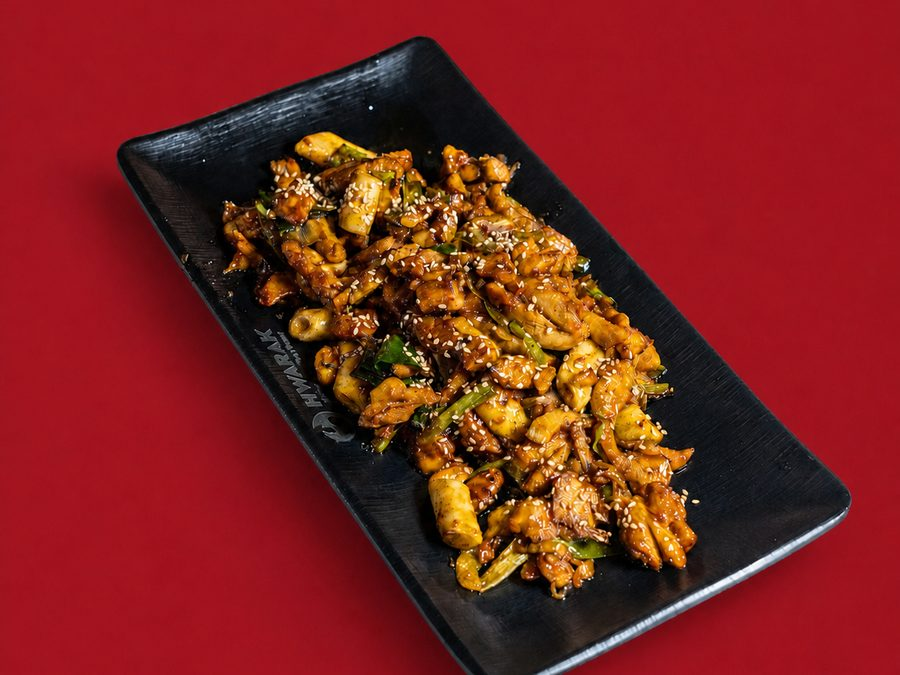
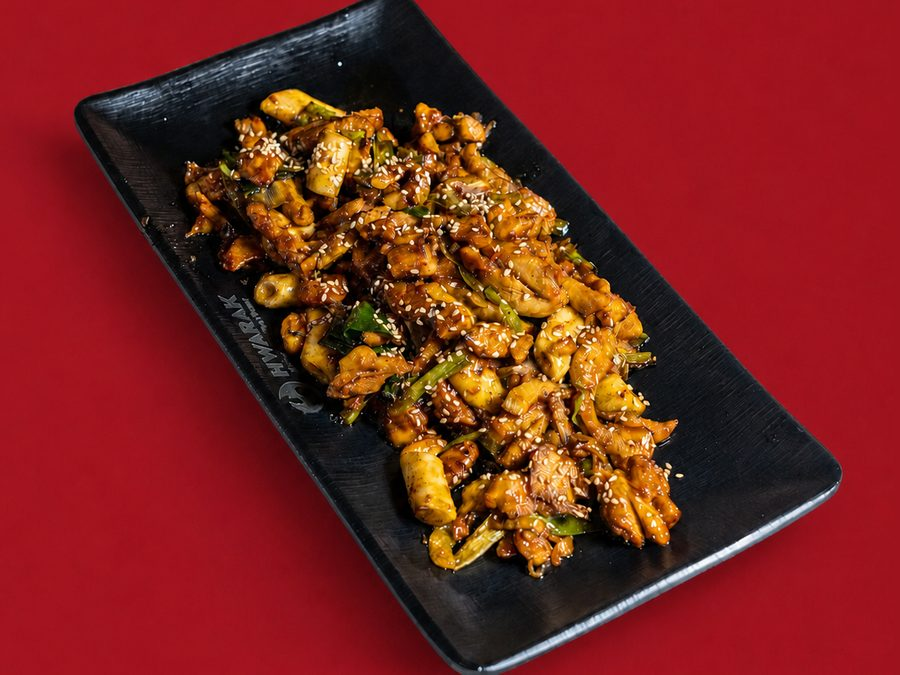
음식 사진이 잘리던 문제 수정 + 예쁜 사진 순으로 재배열
잘림·치우침
  원본이 정사각(1254x1254)인데 화면은 4:3 이라 위아래를 잘라내고
  있었습니다. 음식의 세로 중심이 0.435~0.594 로 사진마다 달라서
  잘리는 위치도 제각각이었습니다.

  자르는 대신 배경색으로 채우도록 바꿨습니다. 스튜디오 사진이라
  배경이 한 가지 색이어서 이어 붙인 티가 나지 않습니다.
  네 귀퉁이에서 배경색을 읽고, 배경과 다른 화소(=음식)의 범위를
  찾아 그 가운데에 맞춥니다. 이제 잘리는 사진이 없습니다.

순서
  식사준비 — 한 접시가 또렷한 사진(낙지볶음·비빔밥·김치찌개·돈까스·
  부추전·냉면)을 앞으로, 여러 그릇이 깔린 한상 차림을 뒤로
  남자피자 — 새로 찍은 베이컨포테이토를 앞으로

diff --git a/menu/index.html b/menu/index.html
@@ -823,9 +823,9 @@
     
 
     
-    <div id="menuBody"><h3 class="msec">식사준비</h3><div class="mbody"><div class="mside"><div class="mgrid"><figure class="mitem"><div class="mitem__img"><img data-photo="한상 차림" data-size="1400×1400" src="/assets/img/food/meal-1.jpg" alt="한상 차림"></div></figure><figure class="mitem"><div class="mitem__img"><img data-photo="비빔밥 정식" data-size="1400×1400" src="/assets/img/food/meal-2.jpg" alt="비빔밥 정식"></div></figure><figure class="mitem"><div class="mitem__img"><img data-photo="찌개 한상" data-size="1400×1400" src="/assets/img/food/meal-3.jpg" alt="찌개 한상"></div></figure><figure class="mitem"><div class="mitem__img"><img data-photo="반찬 한상" data-size="1400×1400" src="/assets/img/food/meal-4.jpg" alt="반찬 한상"></div></figure><figure class="mitem"><div class="mitem__img"><img data-photo="제육 한상" data-size="1400×1400" src="/assets/img/food/meal-5.jpg" alt="제육 한상"></div></figure><figure class="mitem"><div class="mitem__img"><img data-photo="김치찌개" data-size="1400×1400" src="/assets/img/food/kimchi.jpg" alt="김치찌개"></div></figure><figure class="mitem"><div class="mitem__img"><img data-photo="김치찌개" data-size="1400×1400" src="/assets/img/food/kimchi-2.jpg" alt="김치찌개"></div></figure><figure class="mitem"><div class="mitem__img"><img data-photo="낙지볶음" data-size="1400×1400" src="/assets/img/food/nakji.jpg" alt="낙지볶음"></div></figure><figure class="mitem"><div class="mitem__img"><img data-photo="양푼 열무비빔밥" data-size="1400×1400" src="/assets/img/food/bibimbap.jpg" alt="양푼 열무비빔밥"></div></figure><figure class="mitem"><div class="mitem__img"><img data-photo="돈까스" data-size="1400×1400" src="/assets/img/food/donkatsu.jpg" alt="돈까스"></div></figure><figure class="mitem"><div class="mitem__img"><img data-photo="냉면" data-size="1400×1400" src="/assets/img/food/naengmyeon.jpg" alt="냉면"></div></figure><figure class="mitem"><div class="mitem__img"><img data-photo="부추전" data-size="1400×1400" src="/assets/img/food/buchujeon.jpg" alt="부추전"></div></figure></div></div><div class="tablewrap mtblwrap"><table class="mtbl"><thead><tr><th>메뉴</th><th>판매가</th></tr></thead><tbody><tr><th scope="row">미역국</th><td>10,900원</td></tr><tr><th scope="row">김치찌개</th><td>11,900원</td></tr><tr><th scope="row">파 소불고기</th><td>11,900원</td></tr><tr><th scope="row">양푼 열무비빔밥</th><td>11,900원</td></tr><tr><th scope="row">여름별미 (콩국수)<span>계절 메뉴 · 6~9월</span></th><td>9,900원</td></tr><tr><th scope="row">제육볶음</th><td>11,900원</td></tr><tr><th scope="row">낙지볶음</th><td>11,900원</td></tr><tr><th scope="row">오징어볶음</th><td>11,900원</td></tr><tr><th scope="row">돈까스</th><td>11,900원</td></tr><tr><th scope="row">국물떡볶이</th><td>8,900원</td></tr><tr><th scope="row">물냉면 · 비빔냉면</th><td>9,900원</td></tr><tr><th scope="row">김치전</th><td>7,900원</td></tr><tr><th scope="row">부추전</th><td>7,900원</td></tr><tr><th scope="row">공기밥</th><td>1,500원</td></tr><tr><th scope="row">김치</th><td>2,000원</td></tr><tr><th scope="row">단무지</th><td>1,000원</td></tr><tr><th scope="row">계란후라이</th><td>1,000원</td></tr></tbody></table></div></div>
+    <div id="menuBody"><h3 class="msec">식사준비</h3><div class="mbody"><div class="mside"><div class="mgrid"><figure class="mitem"><div class="mitem__img"><img data-photo="낙지볶음" data-size="1400×1400" src="/assets/img/food/nakji.jpg" alt="낙지볶음"></div></figure><figure class="mitem"><div class="mitem__img"><img data-photo="양푼 열무비빔밥" data-size="1400×1400" src="/assets/img/food/bibimbap.jpg" alt="양푼 열무비빔밥"></div></figure><figure class="mitem"><div class="mitem__img"><img data-photo="김치찌개" data-size="1400×1400" src="/assets/img/food/kimchi.jpg" alt="김치찌개"></div></figure><figure class="mitem"><div class="mitem__img"><img data-photo="돈까스" data-size="1400×1400" src="/assets/img/food/donkatsu.jpg" alt="돈까스"></div></figure><figure class="mitem"><div class="mitem__img"><img data-photo="부추전" data-size="1400×1400" src="/assets/img/food/buchujeon.jpg" alt="부추전"></div></figure><figure class="mitem"><div class="mitem__img"><img data-photo="냉면" data-size="1400×1400" src="/assets/img/food/naengmyeon.jpg" alt="냉면"></div></figure><figure class="mitem"><div class="mitem__img"><img data-photo="김치찌개" data-size="1400×1400" src="/assets/img/food/kimchi-2.jpg" alt="김치찌개"></div></figure><figure class="mitem"><div class="mitem__img"><img data-photo="반찬 한상" data-size="1400×1400" src="/assets/img/food/meal-4.jpg" alt="반찬 한상"></div></figure><figure class="mitem"><div class="mitem__img"><img data-photo="한상 차림" data-size="1400×1400" src="/assets/img/food/meal-1.jpg" alt="한상 차림"></div></figure><figure class="mitem"><div class="mitem__img"><img data-photo="비빔밥 정식" data-size="1400×1400" src="/assets/img/food/meal-2.jpg" alt="비빔밥 정식"></div></figure><figure class="mitem"><div class="mitem__img"><img data-photo="찌개 한상" data-size="1400×1400" src="/assets/img/food/meal-3.jpg" alt="찌개 한상"></div></figure><figure class="mitem"><div class="mitem__img"><img data-photo="제육 한상" data-size="1400×1400" src="/assets/img/food/meal-5.jpg" alt="제육 한상"></div></figure></div></div><div class="tablewrap mtblwrap"><table class="mtbl"><thead><tr><th>메뉴</th><th>판매가</th></tr></thead><tbody><tr><th scope="row">미역국</th><td>10,900원</td></tr><tr><th scope="row">김치찌개</th><td>11,900원</td></tr><tr><th scope="row">파 소불고기</th><td>11,900원</td></tr><tr><th scope="row">양푼 열무비빔밥</th><td>11,900원</td></tr><tr><th scope="row">여름별미 (콩국수)<span>계절 메뉴 · 6~9월</span></th><td>9,900원</td></tr><tr><th scope="row">제육볶음</th><td>11,900원</td></tr><tr><th scope="row">낙지볶음</th><td>11,900원</td></tr><tr><th scope="row">오징어볶음</th><td>11,900원</td></tr><tr><th scope="row">돈까스</th><td>11,900원</td></tr><tr><th scope="row">국물떡볶이</th><td>8,900원</td></tr><tr><th scope="row">물냉면 · 비빔냉면</th><td>9,900원</td></tr><tr><th scope="row">김치전</th><td>7,900원</td></tr><tr><th scope="row">부추전</th><td>7,900원</td></tr><tr><th scope="row">공기밥</th><td>1,500원</td></tr><tr><th scope="row">김치</th><td>2,000원</td></tr><tr><th scope="row">단무지</th><td>1,000원</td></tr><tr><th scope="row">계란후라이</th><td>1,000원</td></tr></tbody></table></div></div>
 <h3 class="msec">화락</h3><div class="mbody"><div class="mside"><div class="mgrid"><figure class="mitem"><div class="mitem__img"><img data-photo="직화 바베큐치킨" data-size="1400×1400" src="/assets/img/food/hwarak-1.jpg" alt="직화 바베큐치킨"></div></figure><figure class="mitem"><div class="mitem__img"><img data-photo="직화간장치밥" data-size="1400×1400" src="/assets/img/food/hwarak-2.jpg" alt="직화간장치밥"></div></figure></div></div><div class="tablewrap mtblwrap"><table class="mtbl"><thead><tr><th>메뉴</th><th>판매가</th></tr></thead><tbody><tr><th scope="row">직화간장바베큐치킨</th><td>23,900원</td></tr><tr><th scope="row">직화고추장바베큐치킨</th><td>23,900원</td></tr><tr><th scope="row">직화간장치밥</th><td>11,900원</td></tr><tr><th scope="row">직화고추장치밥</th><td>11,900원</td></tr></tbody></table></div></div>
-<h3 class="msec">남자피자</h3><div class="mbody"><div class="mside"><div class="mgrid"><figure class="mitem"><div class="mitem__img"><img data-photo="남자피자 + 생맥주" data-size="1400×1400" src="/assets/img/food/pizza-2.jpg" alt="남자피자 + 생맥주"></div></figure><figure class="mitem"><div class="mitem__img"><img data-photo="베이컨포테이토" data-size="1400×1400" src="/assets/img/food/pizza-4.jpg" alt="베이컨포테이토"></div></figure><figure class="mitem"><div class="mitem__img"><img data-photo="베이컨포테이토" data-size="1400×1400" src="/assets/img/food/pizza-5.jpg" alt="베이컨포테이토"></div></figure></div></div><div class="tablewrap mtblwrap"><table class="mtbl"><thead><tr><th>메뉴</th><th>판매가</th></tr></thead><tbody><tr><th scope="row">남자피자 (매콤피자)<span>매콤소스 + 모짜렐라치즈 + 체다</span></th><td>20,900원</td></tr><tr><th scope="row">애플고르곤졸라<span>애플소스 + 고르곤소스 + 모짜렐라치즈 + 고르곤졸라치즈 + 체다</span></th><td>23,900원</td></tr><tr><th scope="row">베이컨포테이토<span>토마토소스 + 모짜렐라치즈 + 베이컨 + 감자튀김</span></th><td>23,900원</td></tr><tr><th scope="row">불고기피자<span>토마토소스 + 양파 + 양송이 + 불고기 + 모짜렐라치즈</span></th><td>23,900원</td></tr><tr><th scope="row">오리지널피자<span>토마토소스 + 양파 + 양송이 + 불고기 + 페퍼로니 + 블랙올리브 + 모짜렐라치즈</span></th><td>23,900원</td></tr><tr><th scope="row">치즈크러스트 추가</th><td>5,000원</td></tr><tr><th scope="row">감자튀김 추가</th><td>3,000원</td></tr><tr><th scope="row">피자소스 추가<span>갈릭소스 · 핫소스</span></th><td>1,000원</td></tr></tbody></table></div></div>
+<h3 class="msec">남자피자</h3><div class="mbody"><div class="mside"><div class="mgrid"><figure class="mitem"><div class="mitem__img"><img data-photo="베이컨포테이토" data-size="1400×1400" src="/assets/img/food/pizza-4.jpg" alt="베이컨포테이토"></div></figure><figure class="mitem"><div class="mitem__img"><img data-photo="베이컨포테이토" data-size="1400×1400" src="/assets/img/food/pizza-5.jpg" alt="베이컨포테이토"></div></figure><figure class="mitem"><div class="mitem__img"><img data-photo="남자피자 + 생맥주" data-size="1400×1400" src="/assets/img/food/pizza-2.jpg" alt="남자피자 + 생맥주"></div></figure></div></div><div class="tablewrap mtblwrap"><table class="mtbl"><thead><tr><th>메뉴</th><th>판매가</th></tr></thead><tbody><tr><th scope="row">남자피자 (매콤피자)<span>매콤소스 + 모짜렐라치즈 + 체다</span></th><td>20,900원</td></tr><tr><th scope="row">애플고르곤졸라<span>애플소스 + 고르곤소스 + 모짜렐라치즈 + 고르곤졸라치즈 + 체다</span></th><td>23,900원</td></tr><tr><th scope="row">베이컨포테이토<span>토마토소스 + 모짜렐라치즈 + 베이컨 + 감자튀김</span></th><td>23,900원</td></tr><tr><th scope="row">불고기피자<span>토마토소스 + 양파 + 양송이 + 불고기 + 모짜렐라치즈</span></th><td>23,900원</td></tr><tr><th scope="row">오리지널피자<span>토마토소스 + 양파 + 양송이 + 불고기 + 페퍼로니 + 블랙올리브 + 모짜렐라치즈</span></th><td>23,900원</td></tr><tr><th scope="row">치즈크러스트 추가</th><td>5,000원</td></tr><tr><th scope="row">감자튀김 추가</th><td>3,000원</td></tr><tr><th scope="row">피자소스 추가<span>갈릭소스 · 핫소스</span></th><td>1,000원</td></tr></tbody></table></div></div>
 <h3 class="msec">KC치킨</h3><div class="mbody"><div class="mside"><div class="mgrid"><figure class="mitem"><div class="mitem__img"><img data-photo="양념치킨 + 후라이드치킨" data-size="1400×1400" src="/assets/img/food/kc-1.jpg" alt="양념치킨 + 후라이드치킨"></div></figure><figure class="mitem"><div class="mitem__img"><img data-photo="양념치킨" data-size="1400×1400" src="/assets/img/food/kc-2.jpg" alt="양념치킨"></div></figure><figure class="mitem"><div class="mitem__img"><img data-photo="후라이드치킨" data-size="1400×1400" src="/assets/img/food/kc-3.jpg" alt="후라이드치킨"></div></figure></div></div><div class="tablewrap mtblwrap"><table class="mtbl"><thead><tr><th>메뉴</th><th>판매가</th></tr></thead><tbody><tr><th scope="row">후라이드치킨</th><td>20,900원</td></tr><tr><th scope="row">양념치킨</th><td>22,900원</td></tr><tr><th scope="row">양념소스</th><td>2,000원</td></tr><tr><th scope="row">치킨무 추가</th><td>1,000원</td></tr></tbody></table></div></div>
 <h3 class="msec">야간 메뉴</h3><p class="mlead">밤 10시 ~ 새벽 1시 30분에는 아래 메뉴만 주문하실 수 있습니다.</p><div class="mbody"><div class="mside"><div class="mgrid"><figure class="mitem"><div class="mitem__img"><img data-photo="치킨 + 생맥주" data-size="1400×1400" src="/assets/img/food/night-1.jpg" alt="치킨 + 생맥주"></div></figure><figure class="mitem"><div class="mitem__img"><img data-photo="양념·후라이드 + 생맥주" data-size="1400×1400" src="/assets/img/food/night-2.jpg" alt="양념·후라이드 + 생맥주"></div></figure></div></div><div class="tablewrap mtblwrap"><table class="mtbl"><thead><tr><th>메뉴</th><th>판매가</th></tr></thead><tbody><tr><th scope="row">남자피자<span>5종류</span></th><td>20,900원 ~ 23,900원</td></tr><tr><th scope="row">후라이드치킨</th><td>20,900원</td></tr><tr><th scope="row">양념치킨</th><td>22,900원</td></tr><tr><th scope="row">양념소스</th><td>2,000원</td></tr><tr><th scope="row">미역국</th><td>10,900원</td></tr><tr><th scope="row">양푼비빔밥</th><td>11,900원</td></tr></tbody></table></div></div>
 <h3 class="msec">한강라면</h3><p class="mlead">24시간 언제든 뽑아 드실 수 있습니다. 전자레인지와 그릇이 옆에 있습니다.</p><div class="mbody mbody--wide"><div class="mgrid is-one"><figure class="mitem"><div class="mitem__img"><img data-photo="한강라면 IoT 라면자판기" data-size="1400×1400" src="/assets/img/food/ramen.jpg" alt="한강라면 IoT 라면자판기"></div></figure></div></div>

diff --git a/index.html b/index.html
@@ -292,7 +292,7 @@
     </div>
 
     <div class="mtabs" id="menuTabs"><button type="button" class="mtab is-on" data-i="0"><b>식사준비</b></button><button type="button" class="mtab" data-i="1"><b>화락</b></button><button type="button" class="mtab" data-i="2"><b>남자피자</b></button><button type="button" class="mtab" data-i="3"><b>KC치킨</b></button><button type="button" class="mtab" data-i="4"><b>야간 메뉴</b></button><button type="button" class="mtab" data-i="5"><b>한강라면</b></button><button type="button" class="mtab" data-i="6"><b>스타벅스</b></button><button type="button" class="mtab" data-i="7"><b>상하목장 아이스크림</b></button><button type="button" class="mtab" data-i="8"><b>매점</b></button></div>
-    <div id="menuBody"><div class="mbody"><div class="mside"><div class="mgrid"><figure class="mitem"><div class="mitem__img"><img data-photo="한상 차림" data-size="1400×1400" src="assets/img/food/meal-1.jpg" alt="한상 차림"></div></figure><figure class="mitem"><div class="mitem__img"><img data-photo="비빔밥 정식" data-size="1400×1400" src="assets/img/food/meal-2.jpg" alt="비빔밥 정식"></div></figure><figure class="mitem"><div class="mitem__img"><img data-photo="찌개 한상" data-size="1400×1400" src="assets/img/food/meal-3.jpg" alt="찌개 한상"></div></figure><figure class="mitem"><div class="mitem__img"><img data-photo="반찬 한상" data-size="1400×1400" src="assets/img/food/meal-4.jpg" alt="반찬 한상"></div></figure><figure class="mitem"><div class="mitem__img"><img data-photo="제육 한상" data-size="1400×1400" src="assets/img/food/meal-5.jpg" alt="제육 한상"></div></figure><figure class="mitem"><div class="mitem__img"><img data-photo="김치찌개" data-size="1400×1400" src="assets/img/food/kimchi.jpg" alt="김치찌개"></div></figure><figure class="mitem"><div class="mitem__img"><img data-photo="김치찌개" data-size="1400×1400" src="assets/img/food/kimchi-2.jpg" alt="김치찌개"></div></figure><figure class="mitem"><div class="mitem__img"><img data-photo="낙지볶음" data-size="1400×1400" src="assets/img/food/nakji.jpg" alt="낙지볶음"></div></figure><figure class="mitem"><div class="mitem__img"><img data-photo="양푼 열무비빔밥" data-size="1400×1400" src="assets/img/food/bibimbap.jpg" alt="양푼 열무비빔밥"></div></figure><figure class="mitem"><div class="mitem__img"><img data-photo="돈까스" data-size="1400×1400" src="assets/img/food/donkatsu.jpg" alt="돈까스"></div></figure><figure class="mitem"><div class="mitem__img"><img data-photo="냉면" data-size="1400×1400" src="assets/img/food/naengmyeon.jpg" alt="냉면"></div></figure><figure class="mitem"><div class="mitem__img"><img data-photo="부추전" data-size="1400×1400" src="assets/img/food/buchujeon.jpg" alt="부추전"></div></figure></div></div><div class="tablewrap mtblwrap"><table class="mtbl"><thead><tr><th>메뉴</th><th>판매가</th></tr></thead><tbody><tr><th scope="row">미역국</th><td>10,900원</td></tr><tr><th scope="row">김치찌개</th><td>11,900원</td></tr><tr><th scope="row">파 소불고기</th><td>11,900원</td></tr><tr><th scope="row">양푼 열무비빔밥</th><td>11,900원</td></tr><tr><th scope="row">여름별미 (콩국수)<span>계절 메뉴 · 6~9월</span></th><td>9,900원</td></tr><tr><th scope="row">제육볶음</th><td>11,900원</td></tr><tr><th scope="row">낙지볶음</th><td>11,900원</td></tr><tr><th scope="row">오징어볶음</th><td>11,900원</td></tr><tr><th scope="row">돈까스</th><td>11,900원</td></tr><tr><th scope="row">국물떡볶이</th><td>8,900원</td></tr><tr><th scope="row">물냉면 · 비빔냉면</th><td>9,900원</td></tr><tr><th scope="row">김치전</th><td>7,900원</td></tr><tr><th scope="row">부추전</th><td>7,900원</td></tr><tr><th scope="row">공기밥</th><td>1,500원</td></tr><tr><th scope="row">김치</th><td>2,000원</td></tr><tr><th scope="row">단무지</th><td>1,000원</td></tr><tr><th scope="row">계란후라이</th><td>1,000원</td></tr></tbody></table></div></div></div>
+    <div id="menuBody"><div class="mbody"><div class="mside"><div class="mgrid"><figure class="mitem"><div class="mitem__img"><img data-photo="낙지볶음" data-size="1400×1400" src="assets/img/food/nakji.jpg" alt="낙지볶음"></div></figure><figure class="mitem"><div class="mitem__img"><img data-photo="양푼 열무비빔밥" data-size="1400×1400" src="assets/img/food/bibimbap.jpg" alt="양푼 열무비빔밥"></div></figure><figure class="mitem"><div class="mitem__img"><img data-photo="김치찌개" data-size="1400×1400" src="assets/img/food/kimchi.jpg" alt="김치찌개"></div></figure><figure class="mitem"><div class="mitem__img"><img data-photo="돈까스" data-size="1400×1400" src="assets/img/food/donkatsu.jpg" alt="돈까스"></div></figure><figure class="mitem"><div class="mitem__img"><img data-photo="부추전" data-size="1400×1400" src="assets/img/food/buchujeon.jpg" alt="부추전"></div></figure><figure class="mitem"><div class="mitem__img"><img data-photo="냉면" data-size="1400×1400" src="assets/img/food/naengmyeon.jpg" alt="냉면"></div></figure><figure class="mitem"><div class="mitem__img"><img data-photo="김치찌개" data-size="1400×1400" src="assets/img/food/kimchi-2.jpg" alt="김치찌개"></div></figure><figure class="mitem"><div class="mitem__img"><img data-photo="반찬 한상" data-size="1400×1400" src="assets/img/food/meal-4.jpg" alt="반찬 한상"></div></figure><figure class="mitem"><div class="mitem__img"><img data-photo="한상 차림" data-size="1400×1400" src="assets/img/food/meal-1.jpg" alt="한상 차림"></div></figure><figure class="mitem"><div class="mitem__img"><img data-photo="비빔밥 정식" data-size="1400×1400" src="assets/img/food/meal-2.jpg" alt="비빔밥 정식"></div></figure><figure class="mitem"><div class="mitem__img"><img data-photo="찌개 한상" data-size="1400×1400" src="assets/img/food/meal-3.jpg" alt="찌개 한상"></div></figure><figure class="mitem"><div class="mitem__img"><img data-photo="제육 한상" data-size="1400×1400" src="assets/img/food/meal-5.jpg" alt="제육 한상"></div></figure></div></div><div class="tablewrap mtblwrap"><table class="mtbl"><thead><tr><th>메뉴</th><th>판매가</th></tr></thead><tbody><tr><th scope="row">미역국</th><td>10,900원</td></tr><tr><th scope="row">김치찌개</th><td>11,900원</td></tr><tr><th scope="row">파 소불고기</th><td>11,900원</td></tr><tr><th scope="row">양푼 열무비빔밥</th><td>11,900원</td></tr><tr><th scope="row">여름별미 (콩국수)<span>계절 메뉴 · 6~9월</span></th><td>9,900원</td></tr><tr><th scope="row">제육볶음</th><td>11,900원</td></tr><tr><th scope="row">낙지볶음</th><td>11,900원</td></tr><tr><th scope="row">오징어볶음</th><td>11,900원</td></tr><tr><th scope="row">돈까스</th><td>11,900원</td></tr><tr><th scope="row">국물떡볶이</th><td>8,900원</td></tr><tr><th scope="row">물냉면 · 비빔냉면</th><td>9,900원</td></tr><tr><th scope="row">김치전</th><td>7,900원</td></tr><tr><th scope="row">부추전</th><td>7,900원</td></tr><tr><th scope="row">공기밥</th><td>1,500원</td></tr><tr><th scope="row">김치</th><td>2,000원</td></tr><tr><th scope="row">단무지</th><td>1,000원</td></tr><tr><th scope="row">계란후라이</th><td>1,000원</td></tr></tbody></table></div></div></div>
     <p class="cnote" id="menuNote">메뉴와 가격은 매장 사정에 따라 달라질 수 있습니다. 자세한 사항은 매장으로 문의해 주세요.<span class="cnote__credit">원산지 표시 · 김치 · 쌀 · 돼지고기 · 고춧가루 · 들기름 · 하림치킨 국내산 / 직화 닭고기 태국산 / 소고기 호주산 / 참기름 중국산</span><span class="cnote__credit">식당 운영 주식회사 킹푸드 · 대표 이금숙 · 사업자등록번호 772-81-03912 · 주류판매신고번호 304-5-30156</span></p>
   </div>
 </section>

diff --git a/data/site-data.js b/data/site-data.js
@@ -572,18 +572,20 @@ window.SITE_DATA = {
       {
         name: "식사준비",
         photos: [
+          // 한 접시가 또렷하게 보이는 사진을 앞에, 여러 그릇이 깔린
+          // 한상 차림은 뒤에 둡니다
+          { img: "nakji.jpg",      name: "낙지볶음" },
+          { img: "bibimbap.jpg",   name: "양푼 열무비빔밥" },
+          { img: "kimchi.jpg",     name: "김치찌개" },
+          { img: "donkatsu.jpg",   name: "돈까스" },
+          { img: "buchujeon.jpg",  name: "부추전" },
+          { img: "naengmyeon.jpg", name: "냉면" },
+          { img: "kimchi-2.jpg",   name: "김치찌개" },
+          { img: "meal-4.jpg", name: "반찬 한상" },
           { img: "meal-1.jpg", name: "한상 차림" },
           { img: "meal-2.jpg", name: "비빔밥 정식" },
           { img: "meal-3.jpg", name: "찌개 한상" },
-          { img: "meal-4.jpg", name: "반찬 한상" },
           { img: "meal-5.jpg", name: "제육 한상" },
-          { img: "kimchi.jpg",     name: "김치찌개" },
-          { img: "kimchi-2.jpg",   name: "김치찌개" },
-          { img: "nakji.jpg",      name: "낙지볶음" },
-          { img: "bibimbap.jpg",   name: "양푼 열무비빔밥" },
-          { img: "donkatsu.jpg",   name: "돈까스" },
-          { img: "naengmyeon.jpg", name: "냉면" },
-          { img: "buchujeon.jpg",  name: "부추전" },
         ],
         items: [
           { name: "미역국",              price: "10,900원" },
@@ -624,9 +626,9 @@ window.SITE_DATA = {
       {
         name: "남자피자",
         photos: [
-          { img: "pizza-2.jpg", name: "남자피자 + 생맥주" },
           { img: "pizza-4.jpg", name: "베이컨포테이토" },
           { img: "pizza-5.jpg", name: "베이컨포테이토" },
+          { img: "pizza-2.jpg", name: "남자피자 + 생맥주" },
         ],
         items: [
           { name: "남자피자 (매콤피자)", price: "20,900원",

diff --git a/tools/build_food_photos.py b/tools/build_food_photos.py
@@ -77,6 +77,50 @@ FROM_ORIGINAL = {
 }
 
 
+def fit_on_background(im: Image.Image, ratio: float, width: int,
+                      margin: float = 0.07) -> Image.Image:
+    """단색 배경 위에 음식이 놓인 사진을 자르지 않고 정해진 비율로 맞춥니다.
+
+    원본이 정사각(1254x1254)인데 화면은 4:3 이라, 그냥 잘라내면
+    위아래가 잘리고 음식이 한쪽으로 치우칩니다. 스튜디오 사진은 배경이
+    한 가지 색이라 모자란 쪽을 그 색으로 채우면 이어 붙인 티가 나지
+    않습니다. 그래서 자르는 대신 채워서 음식을 온전히 가운데에 둡니다.
+    """
+    im = im.convert("RGB")
+    W, H = im.size
+
+    # ① 네 귀퉁이에서 배경색을 읽습니다
+    s = im.resize((240, max(1, round(240 * H / W))))
+    px = s.load(); sw, sh = s.size
+    cor = [px[1, 1], px[sw - 2, 1], px[1, sh - 2], px[sw - 2, sh - 2]]
+    bg = tuple(sum(c[i] for c in cor) // 4 for i in range(3))
+
+    # ② 배경과 다른 화소 = 음식. 그 범위를 찾습니다
+    xs, ys = [], []
+    for y in range(sh):
+        for x in range(sw):
+            r, g, b = px[x, y]
+            if abs(r - bg[0]) + abs(g - bg[1]) + abs(b - bg[2]) > 78:
+                xs.append(x); ys.append(y)
+    if xs:
+        xs.sort(); ys.sort()
+        cut = max(1, len(xs) // 50)          # 튀는 점 몇 개는 무시합니다
+        x0, x1 = xs[cut] / sw * W, xs[-cut] / sw * W
+        y0, y1 = ys[cut] / sh * H, ys[-cut] / sh * H
+    else:
+        x0, y0, x1, y1 = 0, 0, W, H
+
+    cw, ch = x1 - x0, y1 - y0
+    cx, cy = (x0 + x1) / 2, (y0 + y1) / 2
+
+    # ③ 음식이 여백을 두고 다 들어가는 판을 잡고 가운데에 붙입니다
+    bw = max(cw * (1 + margin * 2), ch * (1 + margin * 2) * ratio)
+    bh = bw / ratio
+    out = Image.new("RGB", (round(bw), round(bh)), bg)
+    out.paste(im, (round(bw / 2 - cx), round(bh / 2 - cy)))
+    return out.resize((width, round(width / ratio)), Image.LANCZOS)
+
+
 def main() -> None:
     dry = "--dry-run" in sys.argv
     total = 0
@@ -91,15 +135,7 @@ def main() -> None:
             continue
 
         with Image.open(src) as im:
-            im = im.convert("RGB")
-            w, h = im.size
-            if w / h > RATIO:                 # 원본이 더 넓다 → 좌우를 자른다
-                nw, nh = round(h * RATIO), h
-            else:                             # 원본이 더 높다 → 위아래를 자른다
-                nw, nh = w, round(w / RATIO)
-            out = im.crop(((w - nw) // 2, (h - nh) // 2,
-                           (w - nw) // 2 + nw, (h - nh) // 2 + nh))
-            out = out.resize((WIDTH, round(WIDTH / RATIO)), Image.LANCZOS)
+            out = fit_on_background(im, RATIO, WIDTH)
 
         buf = io.BytesIO()
         out.save(buf, "JPEG", quality=QUALITY, optimize=True,
